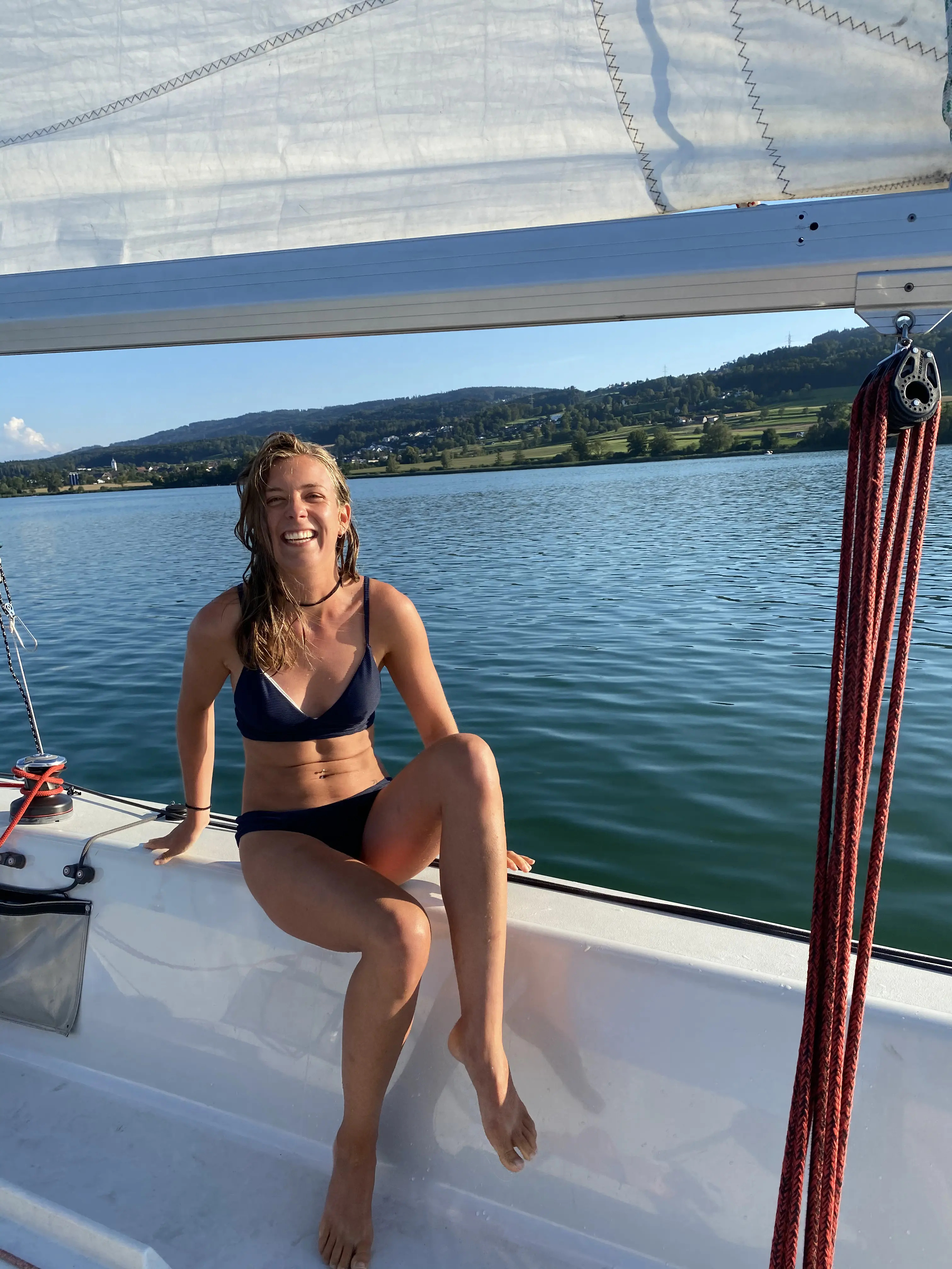
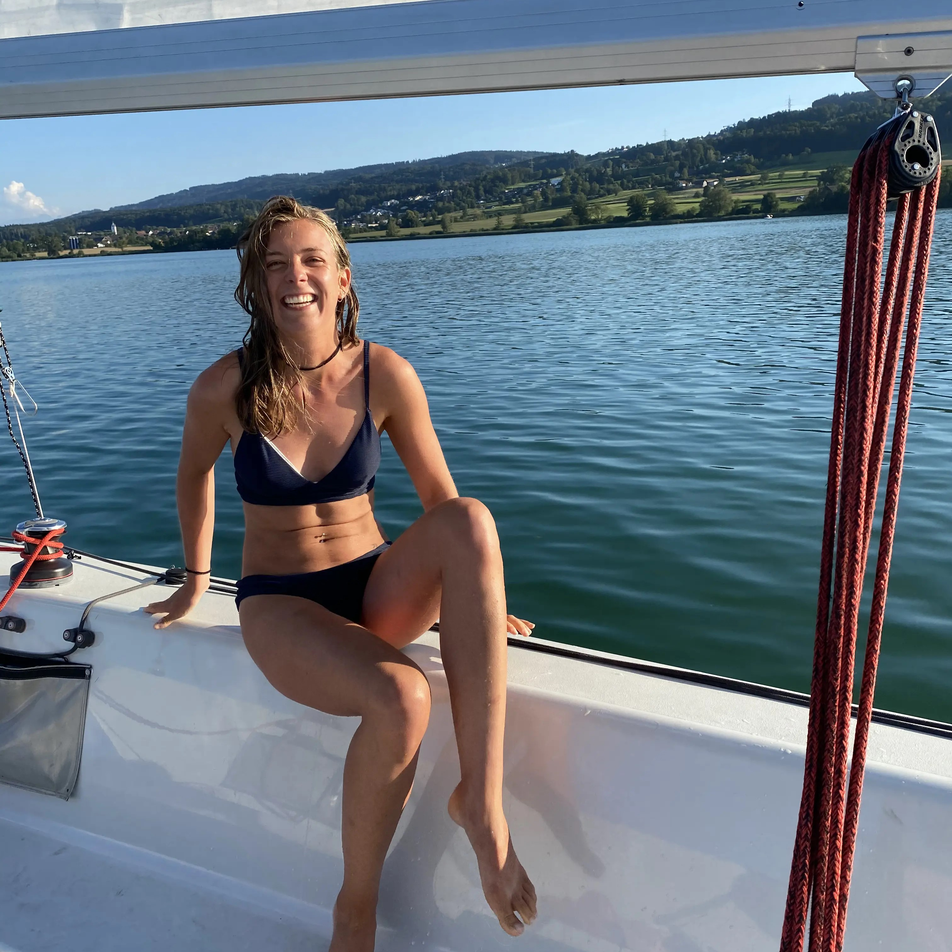
profile pictures

diff --git a/components/about/ueber_uns.html b/components/about/ueber_uns.html
@@ -22,7 +22,7 @@
   <div class="about-values__profiles">
     <article class="profile-card">
       <div class="profile-card__features">
-        <img src="assets/images/profiles/profilepicture_vito.webp" alt="Profilbild Vito" class="profile-card__avatar">
+        <img src="assets/images/profiles/profilepicture_vito.jpg" alt="Profilbild Vito" class="profile-card__avatar">
         <img src="assets/svgs/decorations/vito.svg" alt="Signatur Vito" class="profile-card__signature">
       </div>
       <p class="profile-card__text">
@@ -37,7 +37,7 @@
     </article>
     <article class="profile-card">
       <div class="profile-card__features">
-        <img src="assets/images/profiles/profilepicture_lea.webp" alt="Profilbild Lea" class="profile-card__avatar">
+        <img src="assets/images/profiles/profilepicture_lea.jpg" alt="Profilbild Lea" class="profile-card__avatar">
         <img src="assets/svgs/decorations/lea.svg" alt="Signatur Lea" class="profile-card__signature">
       </div>
       <p class="profile-card__text">

diff --git a/css/styles.css b/css/styles.css
@@ -858,6 +858,11 @@ body.is-ready {
   border-radius: 50%;
   object-fit: cover;
   box-shadow: 0 3px 9px rgba(101, 101, 101, 0.12);
+
+  /* Force high-quality downscaling */
+  image-rendering: auto;
+  -webkit-backface-visibility: hidden; /* fixes GPU compositing artifacts */
+  transform: translateZ(0);           /* forces GPU layer, can fix blurring */
 }
 
 .profile-card__signature {
